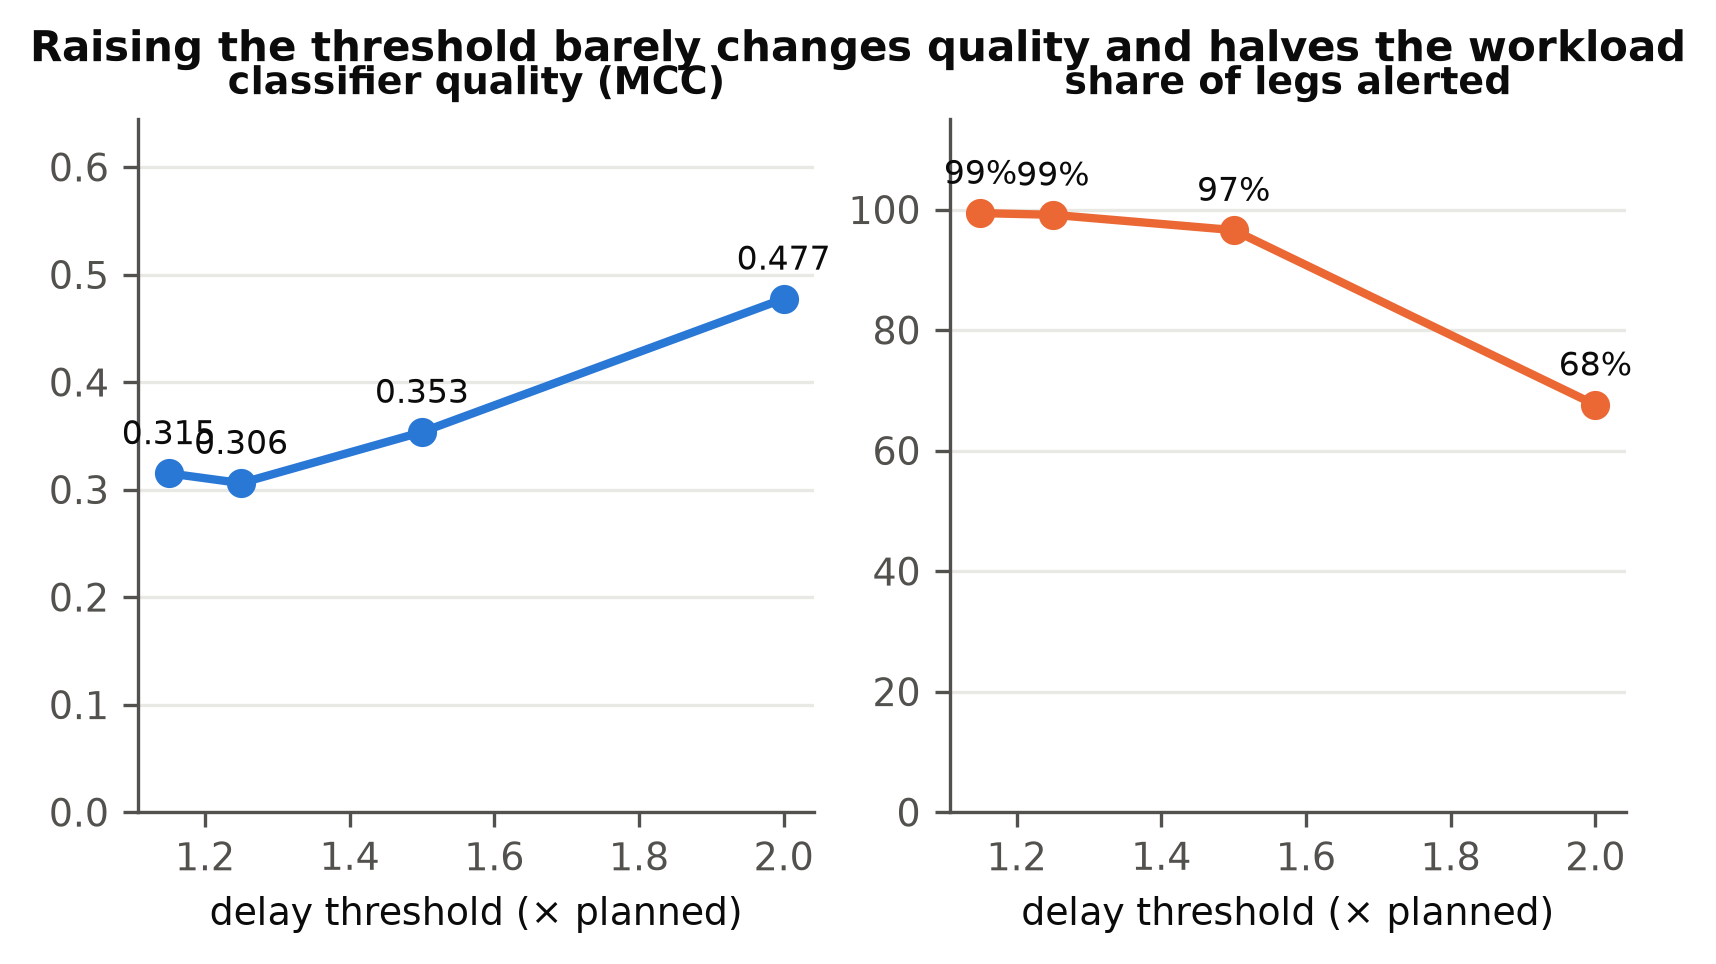
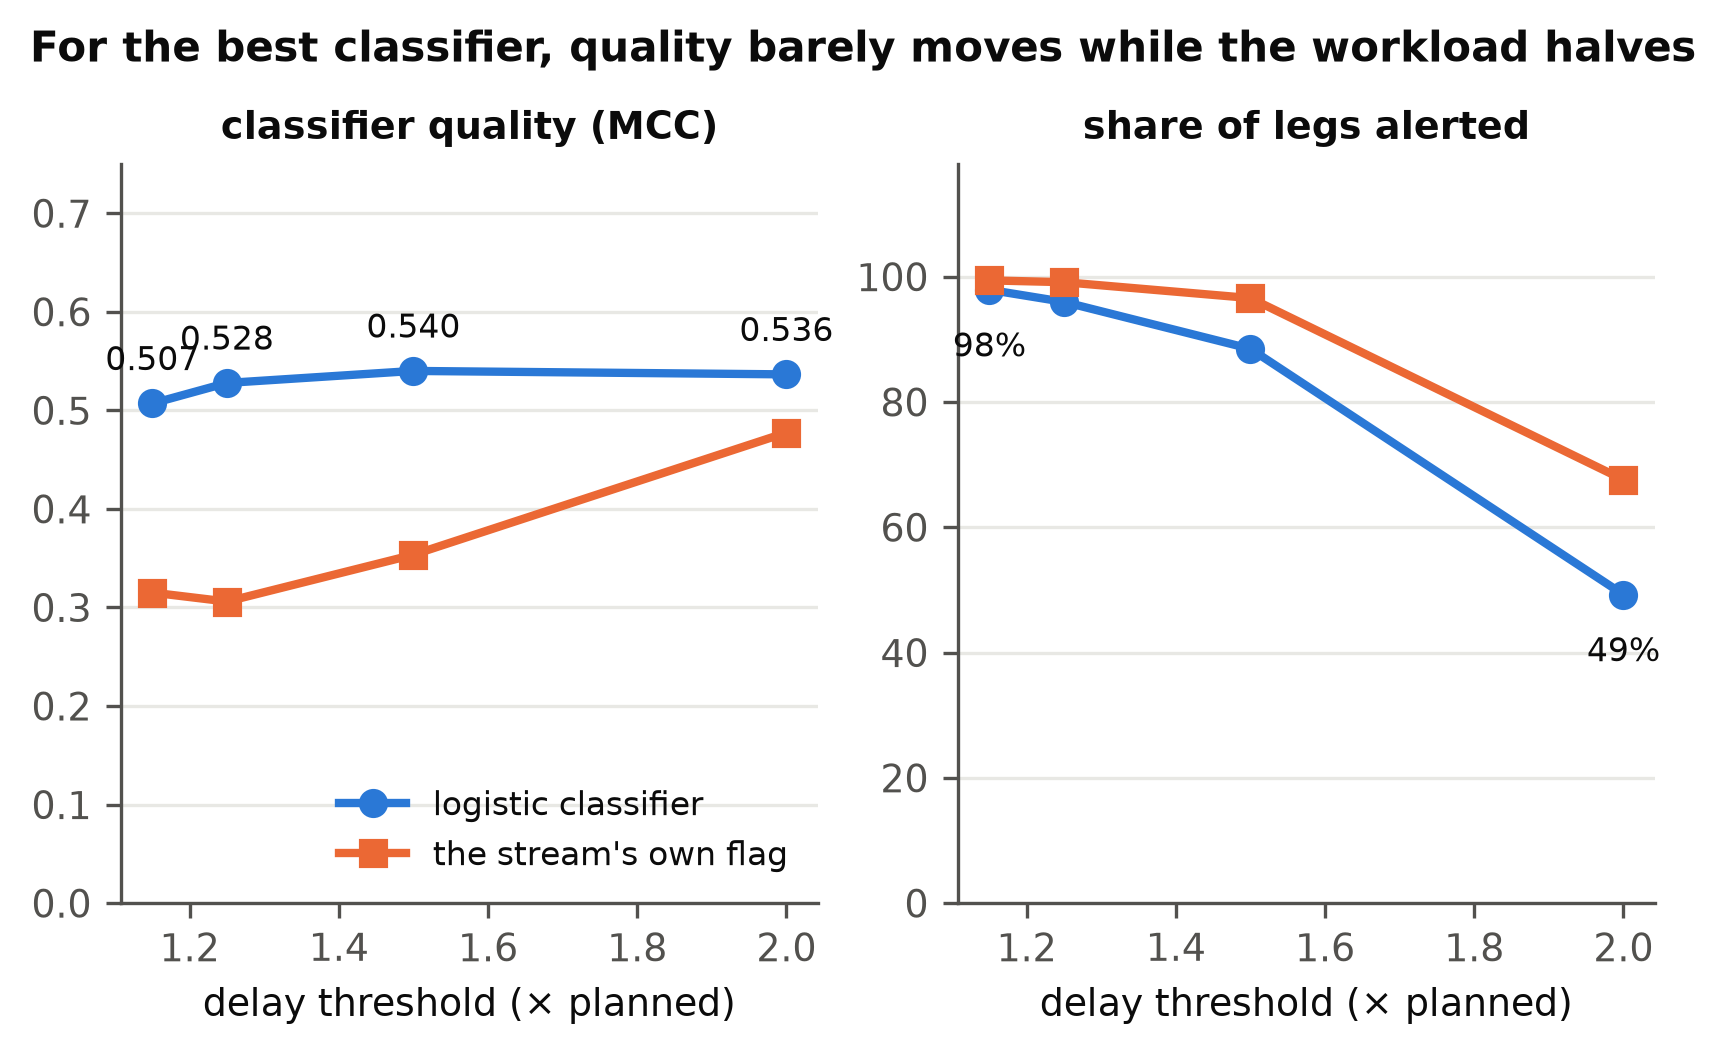
fix the threshold figure: it plotted a contradicting series
The claim -- quality barely moves while alert volume halves -- belongs
to the logistic classifier: mcc 0.507 to 0.540, alerts 98% to 49%. The
figure plotted champion_threshold, the stream's own flag, whose mcc
climbs 0.315 to 0.477 while alerts fall only 99% to 68%. Both series are
drawn now, which also shows the second finding: the stream's flag is the
weaker classifier at every threshold.

Changed region(s): [[0.0, 0.0311, 0.9883, 0.9647]]

diff --git a/src/report/figures.py b/src/report/figures.py
@@ -261,31 +261,49 @@ def fig6_mae_by_support() -> dict:
 
 # ── 4 · the alerting policy ──────────────────────────────────────────────────
 def fig7_threshold() -> dict:
-    """Two measures on different scales: two panels, never two y-axes."""
-    ts = pd.read_csv(RAW / "w5_threshold_sensitivity.csv")
-    champion = ts[ts["model"] == "champion_threshold"].sort_values("threshold")
-    fig, axes = plt.subplots(1, 2, figsize=(6.4, 3.0), sharex=True)
-    axes[0].plot(champion["threshold"], champion["mcc"], marker="o", color=BLUE, lw=2, ms=6)
-    for _, row in champion.iterrows():
-        axes[0].annotate(f"{row['mcc']:.3f}", (row["threshold"], row["mcc"]),
-                         textcoords="offset points", xytext=(0, 7), ha="center", fontsize=8)
-    axes[0].set_title("classifier quality (MCC)", fontsize=9)
-    axes[0].set_ylim(0, max(champion["mcc"]) * 1.35)
+    """Two measures on different scales: two panels, never two y-axes.
 
-    axes[1].plot(champion["threshold"], champion["alert_rate"] * 100, marker="o", color=ORANGE, lw=2, ms=6)
-    for _, row in champion.iterrows():
-        axes[1].annotate(f"{row['alert_rate'] * 100:.0f}%", (row["threshold"], row["alert_rate"] * 100),
-                         textcoords="offset points", xytext=(0, 7), ha="center", fontsize=8)
+    Two series, not one. The claim ("quality barely moves, workload halves") belongs to the
+    **logistic delay classifier**, the best real classifier in the sweep. The first version
+    of this figure plotted `champion_threshold` — the stream's own flag — under that title,
+    where MCC climbs 0.315 → 0.477 and the alert rate falls only 99% → 68%: a chart that
+    argued against its own caption. Both series are now drawn, which is also how the
+    second finding (the stream's flag is the weakest of the two) becomes visible.
+    """
+    ts = pd.read_csv(RAW / "w5_threshold_sensitivity.csv")
+    series = [
+        ("logistic classifier", ts[ts["model"] == "logistic_regression"].sort_values("threshold"), BLUE, "o"),
+        ("the stream's own flag", ts[ts["model"] == "champion_threshold"].sort_values("threshold"), ORANGE, "s"),
+    ]
+    fig, axes = plt.subplots(1, 2, figsize=(6.6, 3.2), sharex=True)
+    for label, frame, colour, marker in series:
+        axes[0].plot(frame["threshold"], frame["mcc"], marker=marker, color=colour, lw=2, ms=6, label=label)
+        axes[1].plot(frame["threshold"], frame["alert_rate"] * 100, marker=marker, color=colour, lw=2, ms=6,
+                     label=label)
+    best = series[0][1]
+    for position, (_, row) in enumerate(best.iterrows()):
+        axes[0].annotate(f"{row['mcc']:.3f}", (row["threshold"], row["mcc"]),
+                         textcoords="offset points", xytext=(0, 8), ha="center", fontsize=8)
+        # Only the endpoints on the right panel: the claim is "98% to 49%", and labelling
+        # the two middle points crowds them into each other at this width.
+        if position in (0, len(best) - 1):
+            axes[1].annotate(f"{row['alert_rate'] * 100:.0f}%", (row["threshold"], row["alert_rate"] * 100),
+                             textcoords="offset points", xytext=(0, -16), ha="center", fontsize=8)
+    axes[0].set_title("classifier quality (MCC)", fontsize=9)
+    axes[0].set_ylim(0, 0.75)
+    axes[0].legend(frameon=False, fontsize=8, loc="lower right")
     axes[1].set_title("share of legs alerted", fontsize=9)
-    axes[1].set_ylim(0, 115)
+    axes[1].set_ylim(0, 118)
     for ax in axes:
         ax.set_xlabel("delay threshold (× planned)")
         ax.grid(axis="y")
         ax.set_axisbelow(True)
-    fig.suptitle("Raising the threshold barely changes quality and halves the workload",
-                 fontsize=10, fontweight="bold")
+    fig.suptitle("For the best classifier, quality barely moves while the workload halves",
+                 fontsize=10, fontweight="bold", y=1.02)
     return _finish(fig, "fig7_threshold_sensitivity",
-                   "Champion-model alerting across delay thresholds. Source: w5_threshold_sensitivity.csv")
+                   "Alerting across delay thresholds. The logistic classifier holds MCC 0.507-0.540 while "
+                   "the share of legs alerted falls 98% to 49%; the stream's own flag is weaker at every "
+                   "threshold. Source: w5_threshold_sensitivity.csv")
 
 
 # ── 5 · the architecture claim ───────────────────────────────────────────────

diff --git a/docs/figures/README.md b/docs/figures/README.md
@@ -12,6 +12,6 @@ Every figure is built from a file in `benchmarks/raw/`. PNG at 300 dpi for slide
 | [`fig4_support_instability`](fig4_support_instability.png) | Top-20 bottleneck lists at a 10-leg and a 30-leg support floor share 0 corridors. Sources: w2_top20_bottlenecks.csv, w2_corridor_audit_support30.csv |
 | [`fig5_model_mae`](fig5_model_mae.png) | Test-split MAE. The bar is the per-corridor median (33.04), not the mean, because MAE is minimised by the median. Sources: w7_model_metrics_v2_stepsize.csv, w7_model_metrics_v2.csv |
 | [`fig6_mae_by_support`](fig6_mae_by_support.png) | Test MAE by how much history the corridor had. On unseen corridors 111.2 → 75.9 min; elsewhere the gain is 0.02-0.51 min. Source: w7_model_metrics_v2_stepsize.csv |
-| [`fig7_threshold_sensitivity`](fig7_threshold_sensitivity.png) | Champion-model alerting across delay thresholds. Source: w5_threshold_sensitivity.csv |
+| [`fig7_threshold_sensitivity`](fig7_threshold_sensitivity.png) | Alerting across delay thresholds. The logistic classifier holds MCC 0.507-0.540 while the share of legs alerted falls 98% to 49%; the stream's own flag is weaker at every threshold. Source: w5_threshold_sensitivity.csv |
 | [`fig8_scale_runtime`](fig8_scale_runtime.png) | network_baseline and corridor_aggregate imported unchanged; wall time includes each run's parquet scan. Source: w7_scale_benchmark.json |
 | [`fig9_severity_precision`](fig9_severity_precision.png) | Notification precision by computed severity over a 2,000-leg replay, against the trivial policy of alerting every leg. Source: w6_exception_eval.json |
